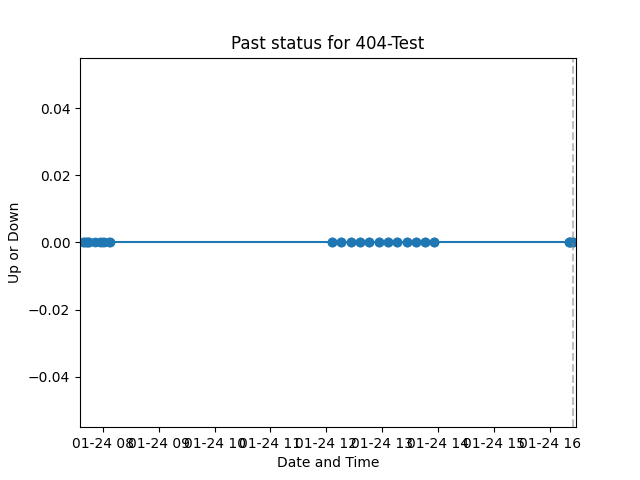
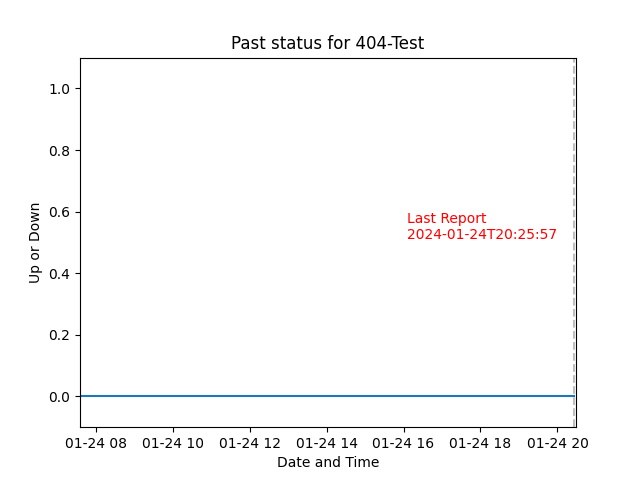
Proper logger enable and Crucial Error spotted and Avoided

diff --git a/templates/itemWebsite.html b/templates/itemWebsite.html
@@ -29,8 +29,10 @@
     <p id="down-user">
         <h3>Is this website currently working for you ?</h3>
         <br>
-        <button class="yes" onclick="sendChoice('yes', '{{ service }}')">Yes ! </button>
-        <button class="no" onclick="sendChoice('no', '{{ service }}')">No ! </button>
+        <b>Disabeld ATM</b>
+        <br>
+        <button class="yes" >Yes ! </button>     <!-- onclick="sendChoice('yes', '{{ service }}')"-->
+        <button class="no" >No ! </button>        <!-- onclick="sendChoice('no', '{{ service }}')"-->
     </p>
 
     <div id="result"></div>

diff --git a/app.py b/app.py
@@ -9,11 +9,12 @@ import atexit
 # My modules
 import jsonUtility
 import dataReport
+from logger_config import *
 
 # Load JSON services
 with open("services.json") as f:
     if f is None:
-        raise ValueError("[LOG]: Error when opening the services.json")
+        raise logger.error("[LOG]: Error when opening the services.json")
     services = json.load(f)
 
 def urlOfService(services, service):
@@ -24,10 +25,10 @@ def urlOfService(services, service):
 def updateStatusService(services, service, session=None):
     url = urlOfService(services, service)
     if url == "NaN":
-        print("[LOG]: You passed a service that is not tracked")
+        logger.warning("[LOG]: You passed a service that is not tracked")
         return False
     
-    print(f"[LOG]: HTTP request for {services[service]["url"]}")
+    logger.info(f"[LOG]: HTTP request for {services[service]["url"]}")
     
     headers = {"User-Agent": "Mozilla/5.0 (X11; CrOS x86_64 12871.102.0) AppleWebKit/537.36 (KHTML, like Gecko) Chrome/81.0.4044.141 Safari/537.36"}
     if session is not None:
@@ -38,7 +39,7 @@ def updateStatusService(services, service, session=None):
         response = requests.head(url, headers=headers).status_code < 400 # Starting 400 codes are error for HTTP GET
     
     
-    print("[LOG]: got status ")
+    logger.info("[LOG]: got status ")
     jsonUtility.updateStatus(services, service, response)
     dataReport.reportStatus(services, service)
     
@@ -47,13 +48,13 @@ def updateStatusService(services, service, session=None):
 def statusService(services, service):
     url = urlOfService(services, service)
     if url == "NaN":
-        print("[LOG]: You passed a service that is not tracked")
+        logger.warning("[LOG]: You passed a service that is not tracked")
         return False
     
     return services[service]["Last status"]
 
 def refreshServices(services):
-    print("[LOG]: Refreshing the services")
+    logger.info("[LOG]: Refreshing the services")
     session = requests.Session()
     
     for service in services.keys():
@@ -63,11 +64,12 @@ def refreshServices(services):
     
     # To archive the current report daily to spare some memory
     dataReport.archiveStatus()
+    logger.info("[LOG]: Finished Refreshing the services")
 
 
 # Setup Scheduler to periodically check the status of the website
 scheduler = BackgroundScheduler()
-scheduler.add_job(refreshServices, "interval" ,args=[services], minutes=jsonUtility.timeCheck/60, next_run_time=datetime.datetime.now() + datetime.timedelta(seconds=1))
+scheduler.add_job(refreshServices, "interval" ,args=[services], minutes=jsonUtility.timeCheck/60, next_run_time=datetime.datetime.now() + datetime.timedelta(seconds=1), max_instances=1)
 
 # Start the scheduler
 scheduler.start()
@@ -127,19 +129,19 @@ def process():
     
 
     if user_choice == 'yes':
-        print('Great! The website is working for you.')
+        logger.info('Great! The website is working for you.')
         
         if service is None:
-            print("[LOG]: Something went wrong with the service reporting, please investigate")
+            logger.warning("[LOG]: Something went wrong with the service reporting, please investigate")
         else:
             dataReport.addReport(service, True)
         
         return 'Great! The website is working for you.'
     elif user_choice == 'no':
-        print('The website is down for me too.')
+        logger.info('The website is down for me too.')
         
         if service is None:
-            print("[LOG]: Something went wrong with the service reporting, please investigate")
+            logger.warning("[LOG]: Something went wrong with the service reporting, please investigate")
         else:
             dataReport.addReport(service, False)
             
@@ -154,10 +156,19 @@ def page_not_found(error):
 @app.route("/extract")
 def extractLog():
     get_what_to_extract = request.args.get("get")
-    print(get_what_to_extract.split("_"))
     
-    if get_what_to_extract.split("_")[0] in services.keys() or get_what_to_extract == "request":
-        print("in keys")
+    if get_what_to_extract.split("_")[0] in services.keys() or get_what_to_extract == "request" or get_what_to_extract == "log":
+        if get_what_to_extract == "log":
+            with open("my_log.log", "r") as file:
+                log_content = file.read()
+
+            response = make_response(log_content)
+
+            response.headers["Content-Type"] = "text/plain"  # Set the content type for log files
+            response.headers["Content-Disposition"] = f"attachment; filename={get_what_to_extract}.log"
+
+            return response
+        
         if len(get_what_to_extract.split("_")) > 1:
             # when we want to extract the past outages not the user outages
             path = "data/" + get_what_to_extract.split("_")[0] + "/outageReport.csv"

diff --git a/dataReport.py b/dataReport.py
@@ -5,6 +5,9 @@ import pytz # For timezone
 import matplotlib.pyplot as plt
 import numpy as np
 
+from logger_config import *
+
+
 # Basic constant
 filepath = "data/"
 cols = "date,UP\n"
@@ -33,12 +36,11 @@ def addBlankCSV():
 
 def plot(service, onlyOutageReport=False):
     if not onlyOutageReport:
-        print("[LOG]: also plotting for user Report")
+        logger.info("[LOG]: also plotting for user Report")
         toPlot = dict(userReport = filepath + service + "/log.csv")
     else:
         toPlot = dict(outageReport = filepath + service + "/outageReport.csv")
     
-    print(toPlot)
     
     for report in toPlot:
         path = toPlot[report]
@@ -70,8 +72,9 @@ def plot(service, onlyOutageReport=False):
             
             timeNow = np.datetime64("now")
             
-            ax.plot(timeArray, UPArray, marker = "o")
+            ax.plot(timeArray, UPArray)
             ax.axvline(x=timeNow, linestyle="--", color="gray", alpha=0.5)
+            ax.set_ylim(-0.1,1.1)
             
             now_kwargs = dict(color="red",ha='left', va='bottom')
             
@@ -107,7 +110,7 @@ def addReport(service, user_choice):
         _type_: _description_
     """
     if service not in serviceList:
-        print("[LOG]: we do not currently track the service")
+        logger.info("[LOG]: we do not currently track the service")
         return False
         
     date = datetime.now(pytz.utc).strftime(jsonUtility.datetimeFormat)
@@ -124,6 +127,7 @@ def addReport(service, user_choice):
 def dataExtraction():
     # To get User's request
     os.system(f'cmd /c "curl {url}/extract?get=request -o data/request/log.csv"')
+    os.system(f'cmd /c "curl {url}/extract?get=log -o my_log.log"')
     
     for service in serviceList:
         os.system(f'cmd /c "curl {url}/extract?get={service} -o data/{service}/log.csv"')
@@ -170,7 +174,7 @@ def reportStatus(services, service):
         service (string): the specific service we want to report
     """
     
-    print("[LOG]: starting Report")
+    logger.info("[LOG]: starting Report")
     date = services[service]["Last access time"]
     UP = services[service]["Last status"]
     
@@ -179,12 +183,12 @@ def reportStatus(services, service):
     with open(path, "a") as out:
         out.write(date + "," + str(UP) + "\n")
     
-    print("[LOG]: Finished Report")
-    print("[LOG]: starting plot")
+    logger.info("[LOG]: Finished Report")
+    logger.info("[LOG]: starting plot")
 
     
     plot(service, True)
-    print("[LOG]: Finished plot")
+    logger.info("[LOG]: Finished plot")
 
 def archiveStatus():
     # We archive between 2 AM and 2 AM + time for a request
@@ -192,10 +196,9 @@ def archiveStatus():
     end_archive = time(2, int(jsonUtility.timeCheck/60))
     currentTime = datetime.utcnow()
 
-    print(start_archive)
 
     if start_archive <= currentTime.time() <= end_archive:
-        print("[LOG]: Starting archiving")
+        logger.info("[LOG]: Starting archiving")
         
         for service in serviceList:
             # Check if there is a file to report the archive

diff --git a/logger_config.py b/logger_config.py
@@ -1,0 +1,27 @@
+import logging
+
+LOG_FORMAT = '%(asctime)s - [%(levelname)s]\t- %(funcName)s:%(lineno)d - %(threadName)s - %(message)s'
+logging.root.setLevel(logging.DEBUG)
+
+
+logging.basicConfig(
+    level=logging.DEBUG,
+    format=LOG_FORMAT,
+)
+
+logger = logging.getLogger("UCLouvain-Down")
+
+file_handler = logging.FileHandler('my_log.log')
+file_handler.setLevel(logging.DEBUG)
+formatter = logging.Formatter(LOG_FORMAT)
+file_handler.setFormatter(formatter)
+logger.addHandler(file_handler)
+
+
+if __name__ == "__main__":
+    # Log some messages at different levels
+    logger.debug('This is a DEBUG message')
+    logger.info('This is an INFO message')
+    logger.warning('This is a WARNING message')
+    logger.error('This is an ERROR message')
+    logger.critical('This is a CRITICAL message')

diff --git a/jsonUtility.py b/jsonUtility.py
@@ -4,6 +4,8 @@ import pytz # For timezone
 import csv
 import os
 
+from logger_config import *
+
 datetimeFormat = "%Y-%m-%dT%H:%M:%S"
 timeCheck = 600 # Check every 300 seconds (in production)
 
@@ -42,11 +44,11 @@ def deltaTime():
 
     for k in j.keys():
         pastDate = datetime.datetime.strptime(j[k]["Last access time"], datetimeFormat)
-        print((currentDate - pastDate).total_seconds())
+        logger.info((currentDate - pastDate).total_seconds())
         
 def deltaTimeService(services, service):
     if service not in services:
-        print("[LOG]: requested service is not tracked")
+        logger.info("[LOG]: requested service is not tracked")
         return 0
     
     currentDate = datetime.datetime.now(pytz.utc)
